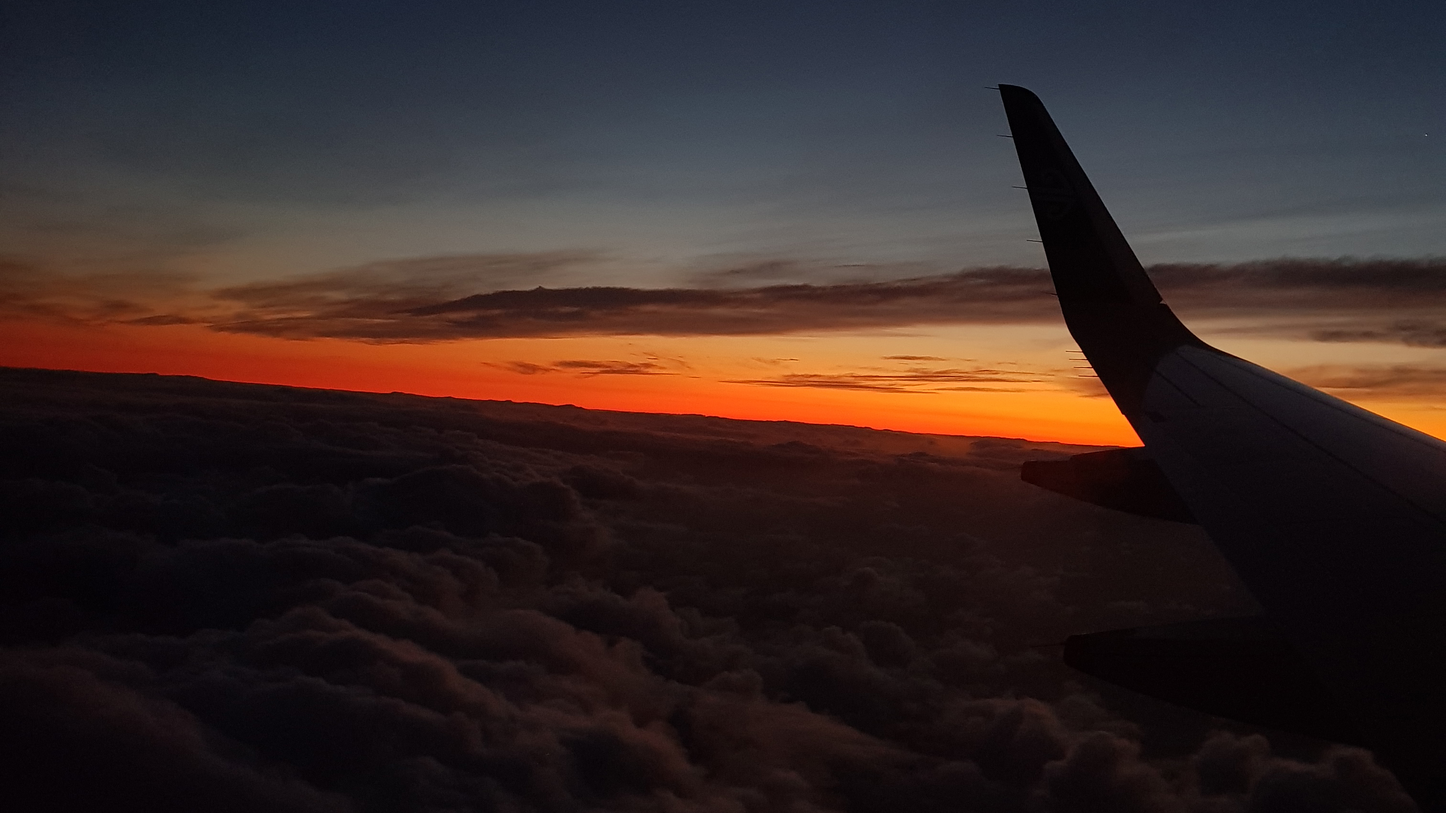
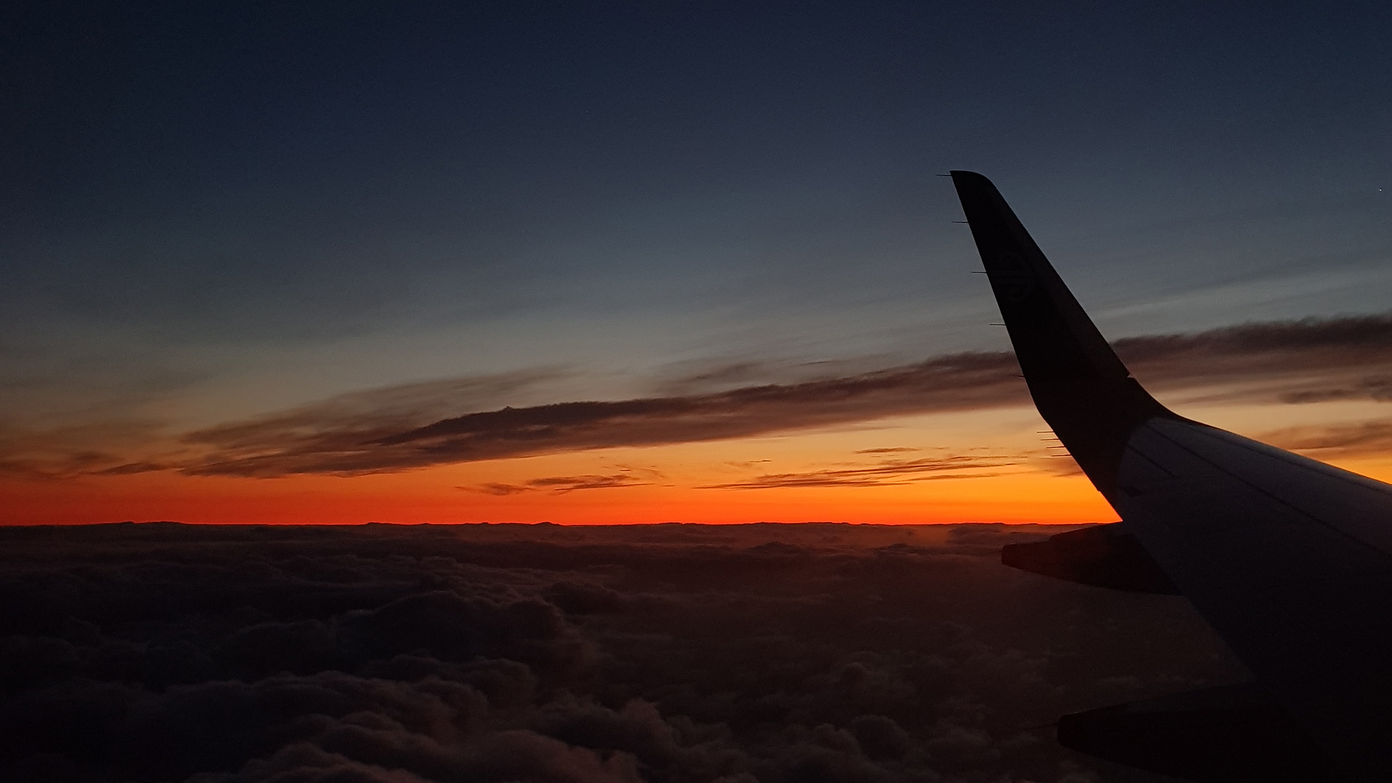
change bg img and add to calendar

diff --git a/index.html b/index.html
@@ -4,7 +4,9 @@
   <title>Jacinta and Sean's Wedding</title>
   <link rel="shortcut icon" href="img/img1.jpg">
   <link rel="stylesheet" href="https://cdnjs.cloudflare.com/ajax/libs/Swiper/4.0.7/css/swiper.min.css">
+  <script type="text/javascript" src="https://addevent.com/libs/atc/1.6.1/atc.min.js" async defer></script>
   <link rel="stylesheet" href="index.css">
+
 
   <!--gold accent #997a0f
 pink #ece0d4
@@ -32,7 +34,12 @@ try get an inner border on circle - sort of offset
             <div class="circle-header">
               <h1 class="header">RSVP</h1>
               <span class="reg small">by
-                  <b>31 Jan 2019 </b>
+                  <b class="addeventatc" title="31 Jan 2019">31 Jan 2019<span class="start">01/31/2019 00:01</span>
+                    <span class="end">01/31/2019 23:59</span>
+                    <span class="timezone">New Zealand</span>
+                    <span class="title">RSVP</span>
+                    <span class="description">Last day to RSVP for Jacinta and Sean's wedding!</span>
+                     </b>
               </span>
               </br>
             </div>
@@ -94,10 +101,10 @@ try get an inner border on circle - sort of offset
       loop: true,
       speed:1000,
       //DON'T FORGET TO UNCOMMENT
-      autoplay: {
+      /*autoplay: {
         delay: 6000,
         disableOnInteraction: false,
-      },
+      },*/
       pagination: {
         el: '.swiper-pagination',
         clickable: true,

diff --git a/index.css b/index.css
@@ -108,6 +108,20 @@
       font-family: body;
     }
 
+    .addeventatc{
+        background:none !important;
+        border:1px solid #997a0f !important;
+        padding:12px !important;
+    }
+    .addeventatc:active, .addeventatc:hover{
+        background-color:rgba(153, 122, 15,0.4) !important;
+    }
+    .addeventatc_icon{
+        display: none !important;
+        width:0 !important;
+        position:unset !important;
+    }
+
     .small {
       font-size: 90%;
     }
